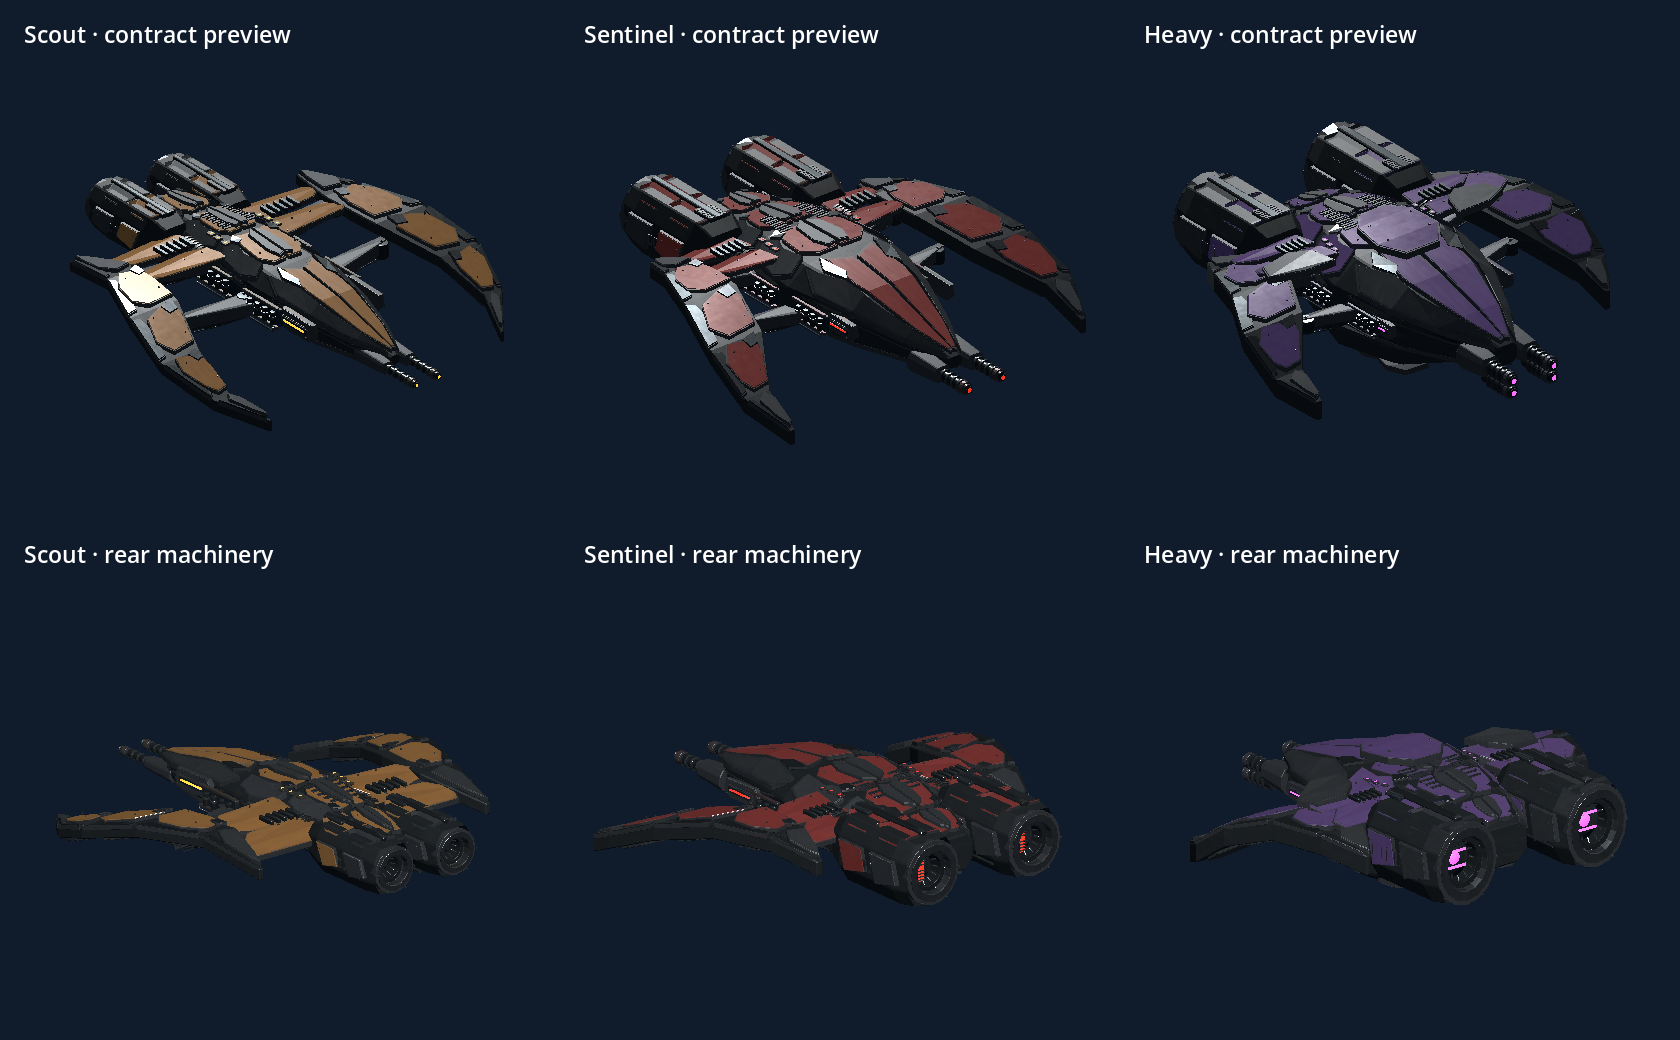
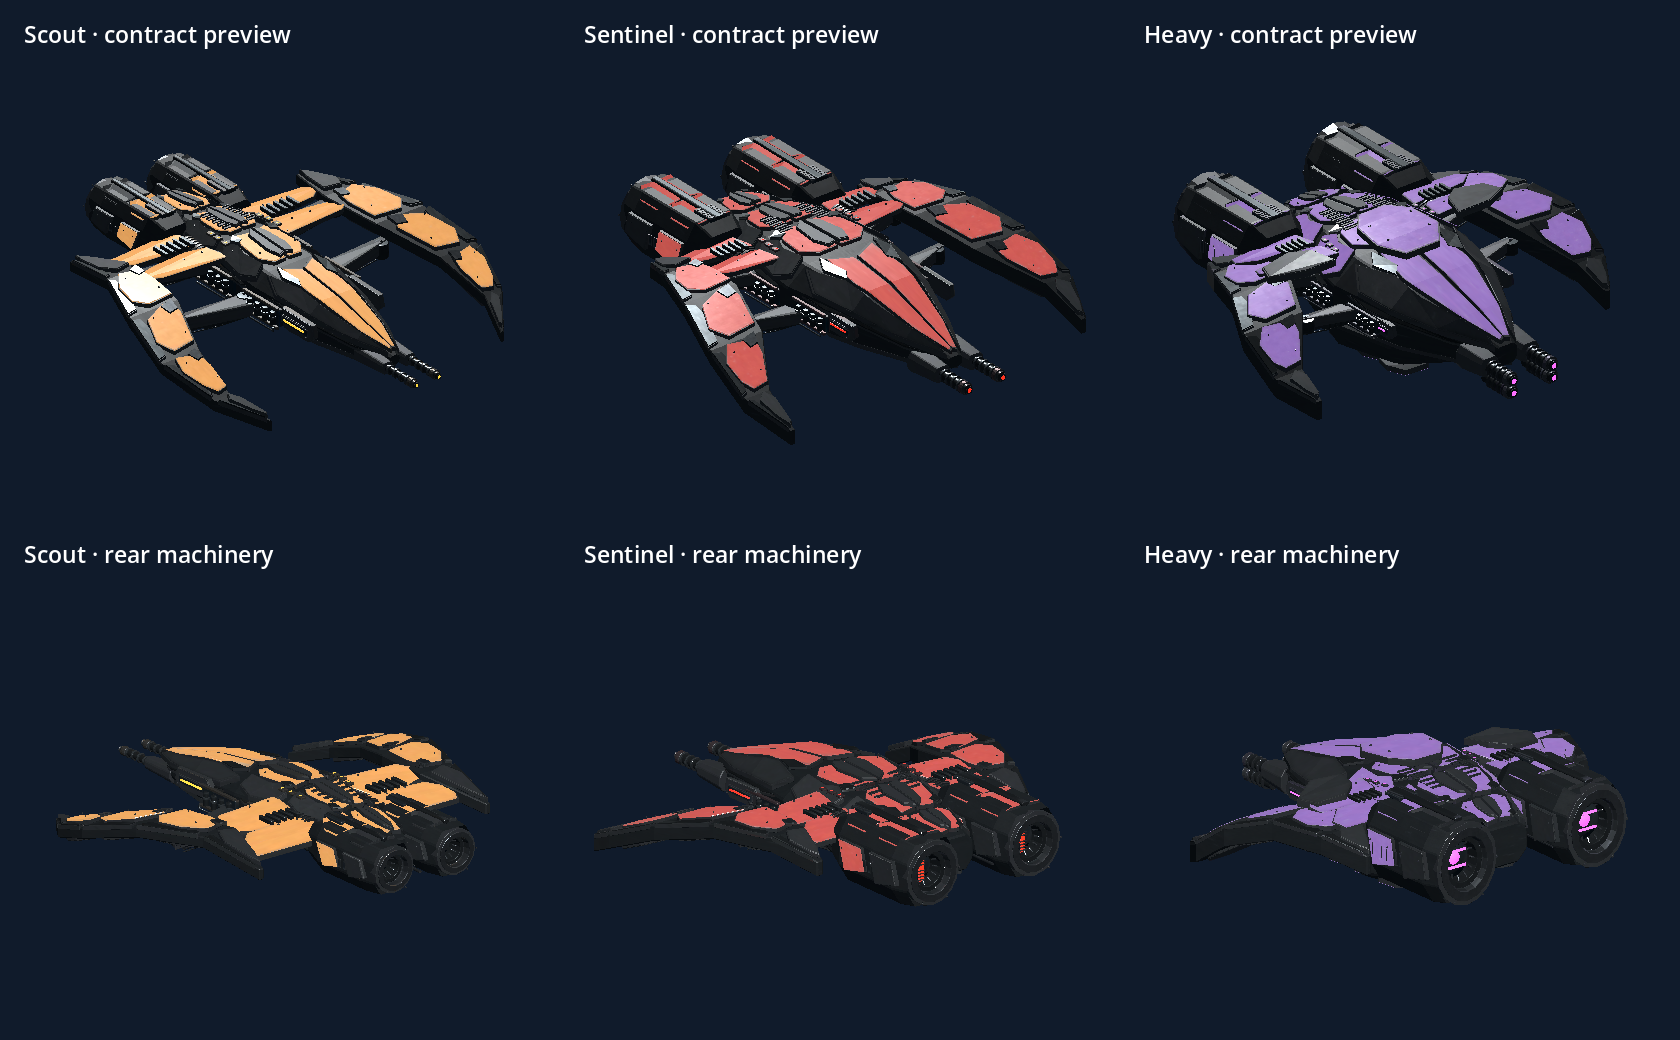
fix: brighten alien armor for sector visibility

diff --git a/art/alien-review/README.md b/art/alien-review/README.md
@@ -69,6 +69,12 @@ three shared 2K maps and Godot-generated distance LODs. The runtime maps average
 albedo in linear space and renormalize normal vectors; the 4K sources remain
 intact. Server-only aliens do not load these visual assets.
 
+The shared Godot model factory adds textured emission to the colored armor for
+readability against the sector nebula, including shadowed faces with bloom off.
+It shares the albedo atlas; dark structure, recesses and sensor/exhaust finishes
+remain distinct. This game visibility adjustment leaves the Blender source
+materials intact.
+
 ![Actual Godot contract previews and rear views](../../docs/feedback/alien-models-godot.png)
 
 The existing `art/.gdignore` excludes this source collection from Godot's imports.
@@ -116,6 +122,9 @@ check suites and the Windows exported-pack build run it. Run Godot with
 `--path . --script res://tools/render_alien_preview.gd` for fresh actual game
 preview captures, and `res://tests/flight_playthrough.gd` for the rendered
 hunt-and-repair replay.
+Append `-- --sector` to the preview command to compare all three aliens at
+25 m and 90 m against the game's sky and lighting. This writes
+`build/validation/alien-visibility-sector.png`.
 
 On 8 October 2026, all 172 source and exported-pack alien checks passed, together
 with the full Windows suite and Windows build checks. The actual Godot preview

diff --git a/GAME_PLAN.md b/GAME_PLAN.md
@@ -765,6 +765,13 @@ retain their packed 4K sources. Collision sizes, alien statistics, combat and
 destruction size retain their existing behavior; dedicated servers do not load
 the visual meshes. Representative-hardware performance still needs playtesting.
 
+Following playtesting, the user requested brighter aliens with more contrast
+against the space background, including at close range. Runtime coated armor
+now reuses its color atlas for a modest emission lift, keeping the amber,
+crimson and violet plating visible on shadowed faces without requiring bloom.
+Dark machinery and recessed seams retain their finish for local contrast.
+Brightness remains a visual playtesting setting.
+
 ## Performance
 
 Reference PC supplied by the user:
